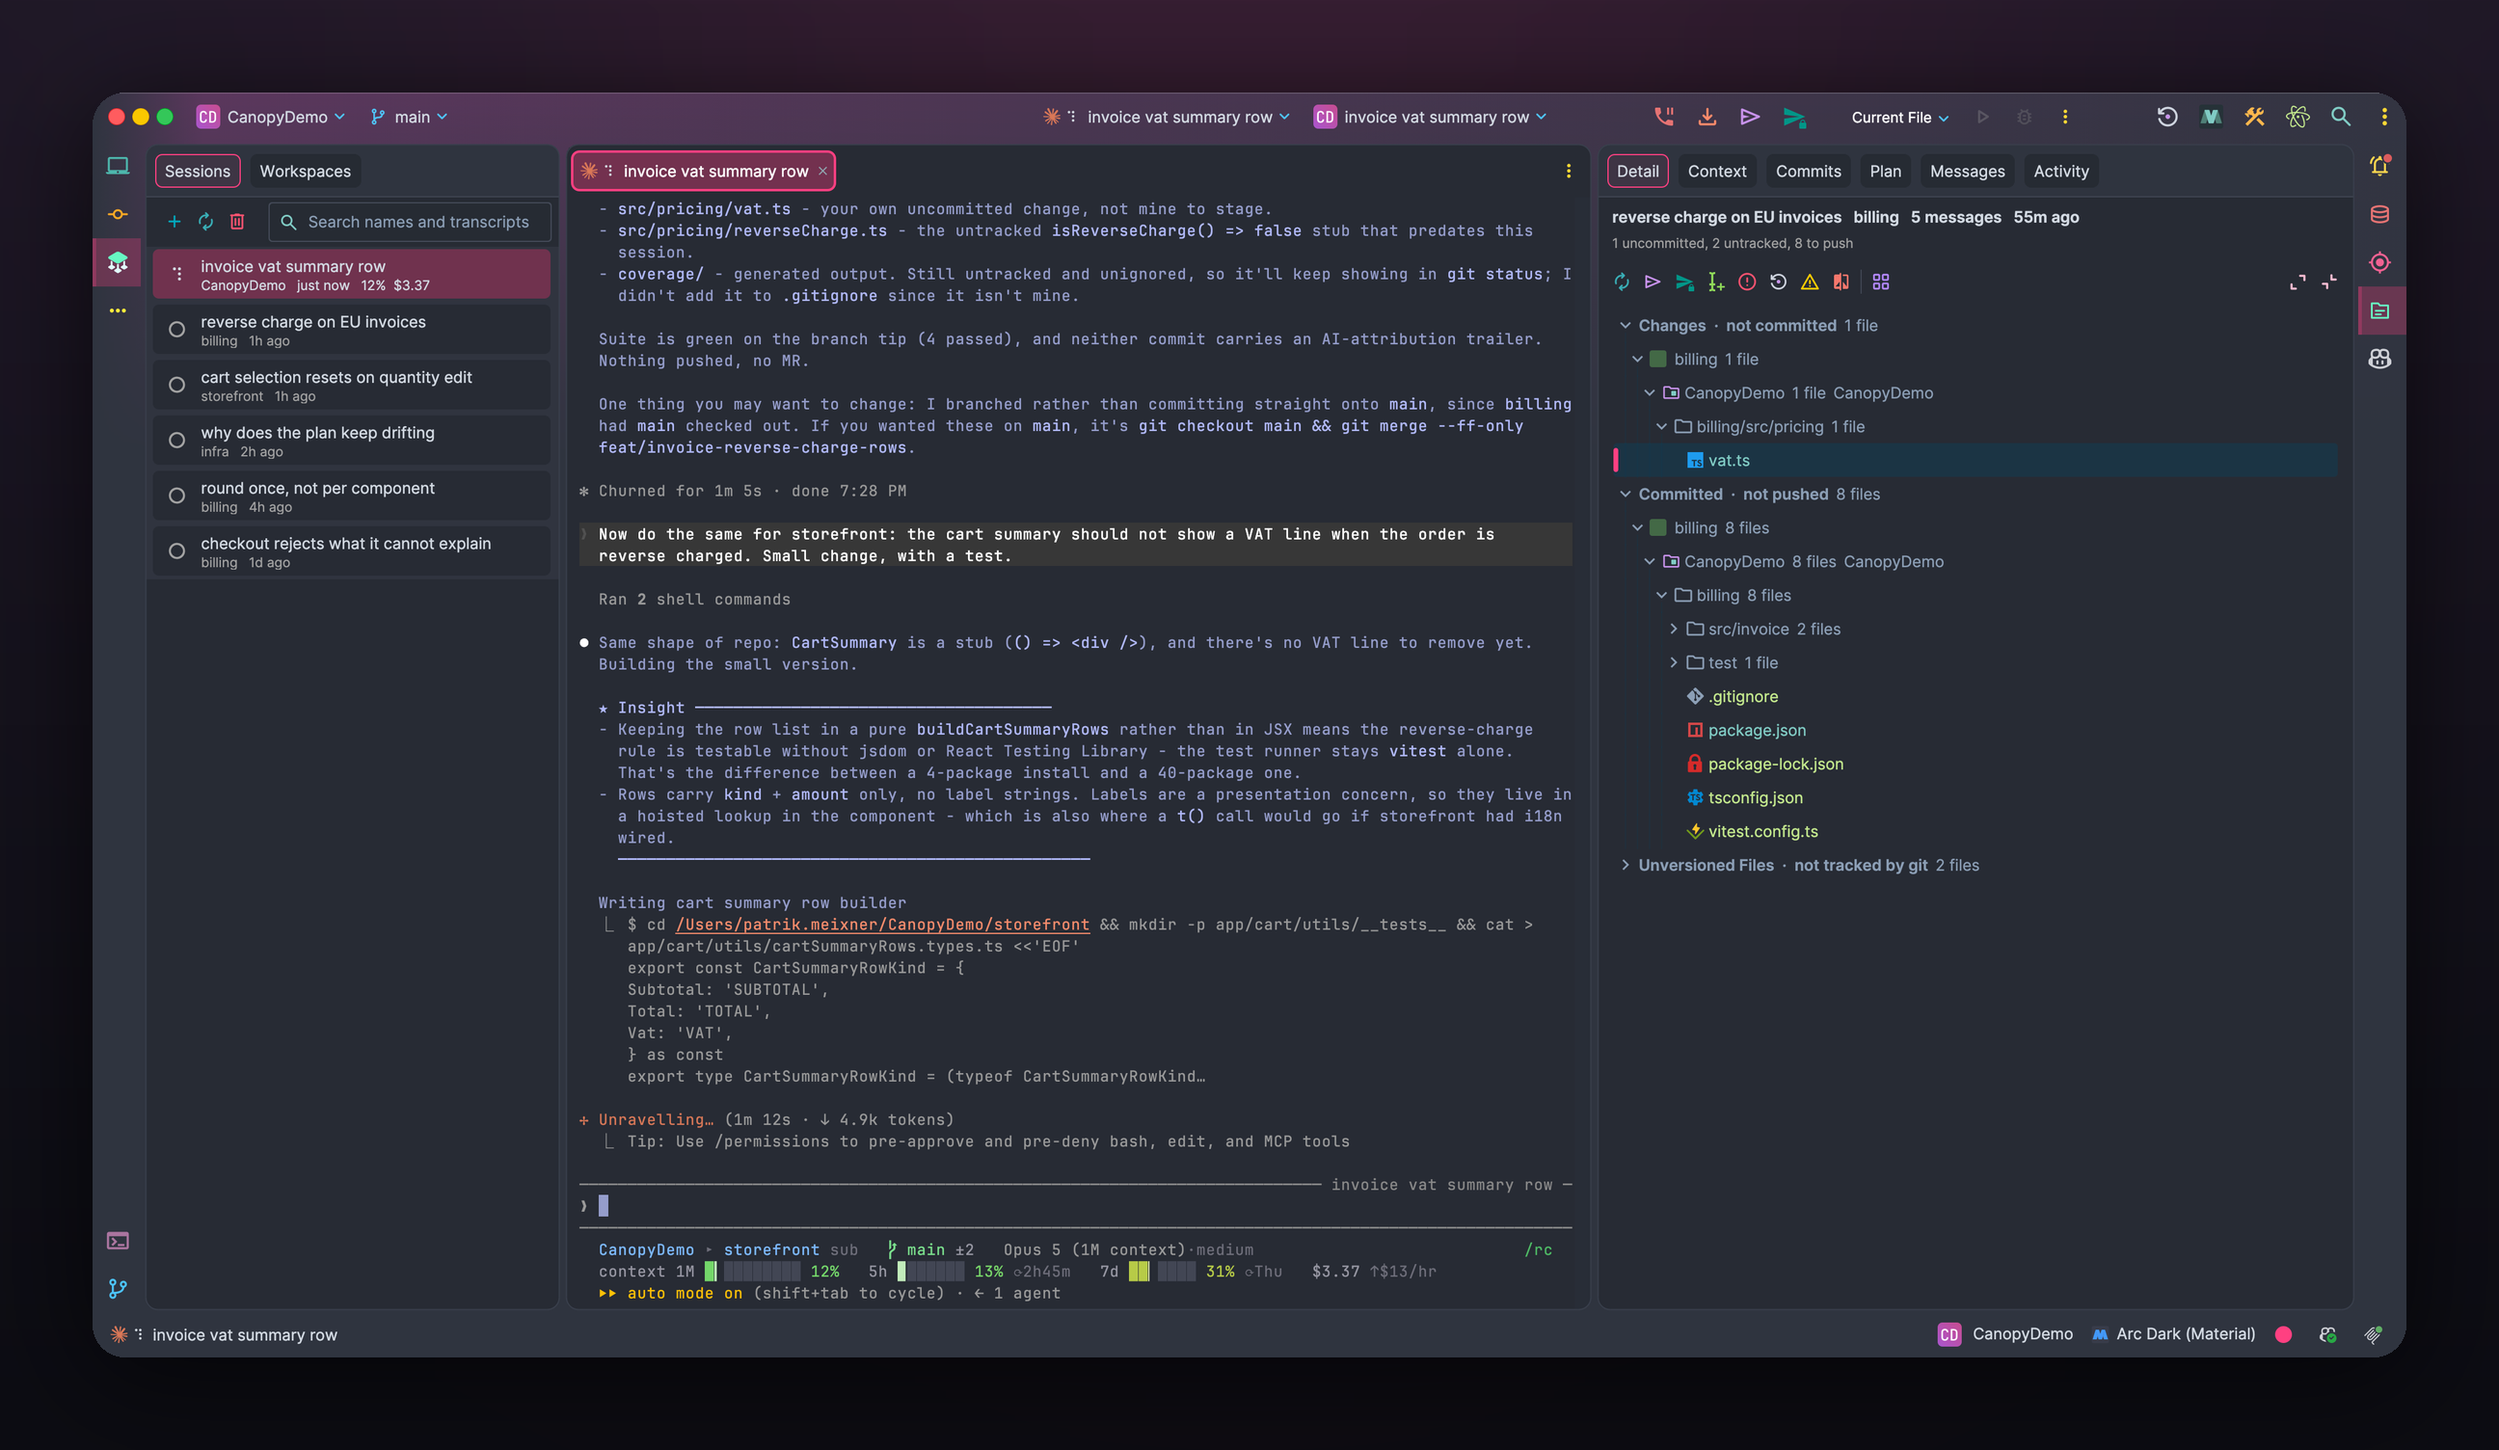
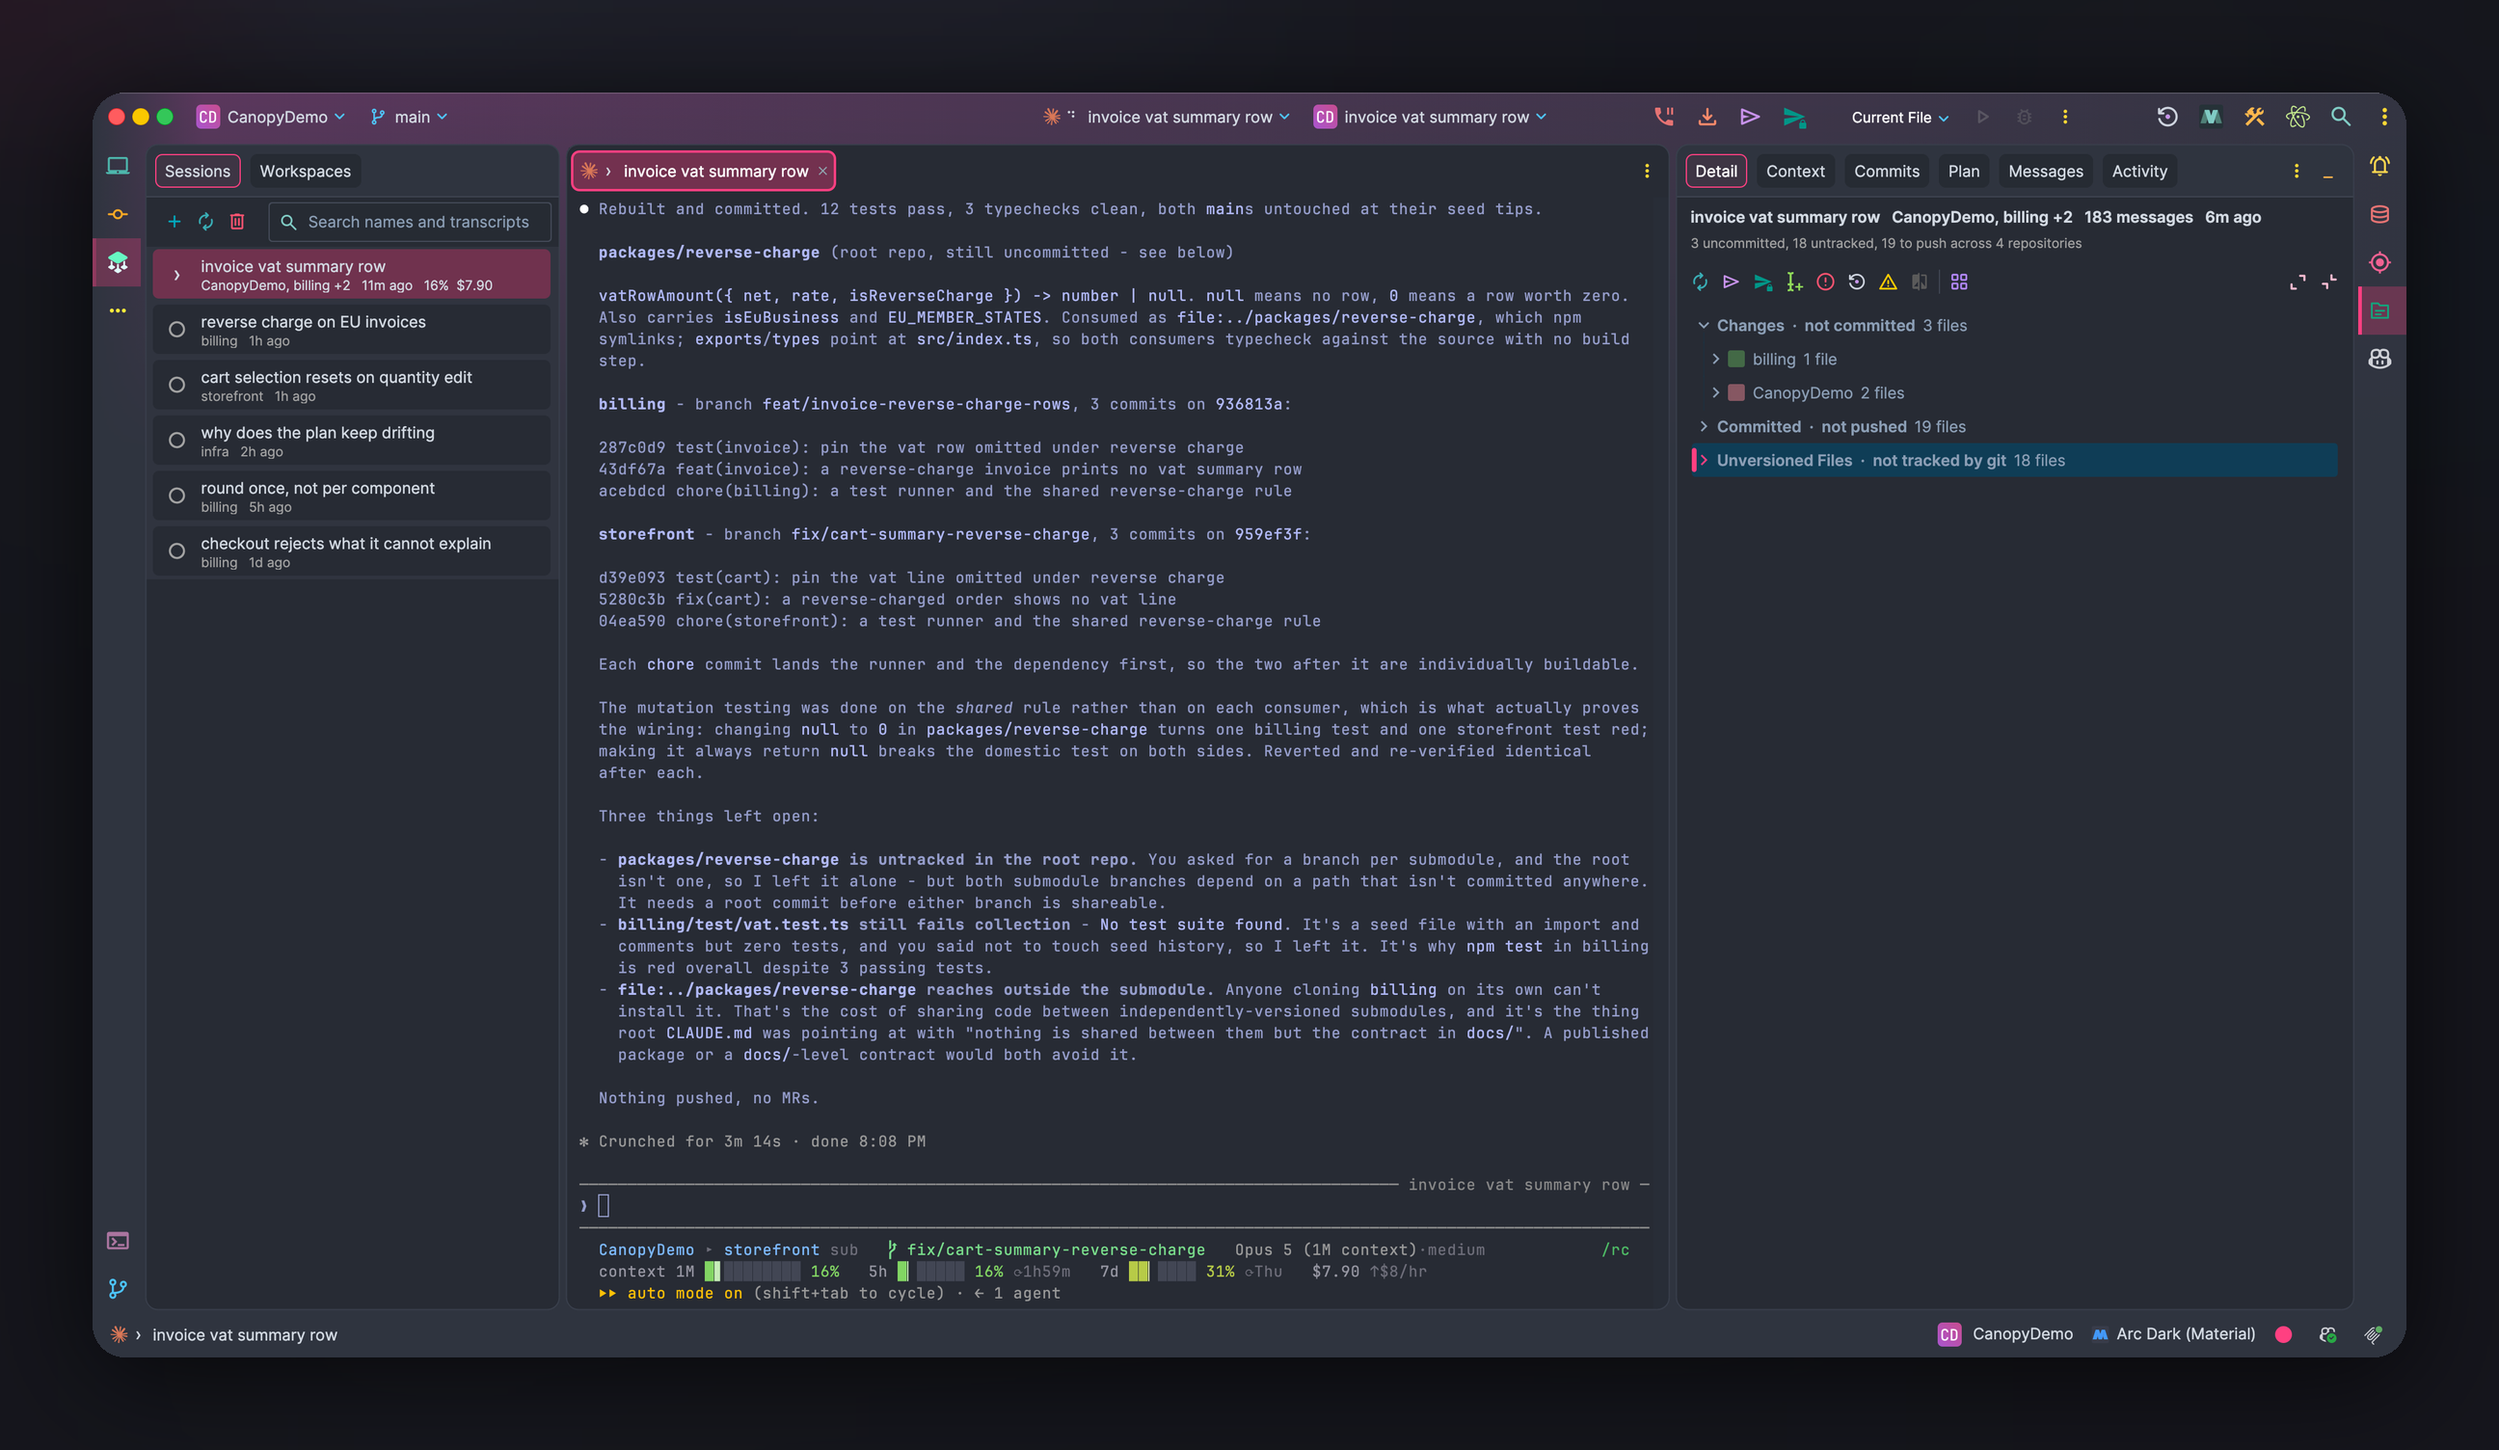
Stand each window on a blurred blow-up of itself
A flat gradient behind the window is a backdrop chosen at random; the window
itself, zoomed and blurred and darkened, belongs to the shot it is behind and
carries its colours.

Eight scenes, all from the demo workspace with a session running in it: the
review beside a working agent, worktrees with the sessions that ran in them, a
range of commits and their union, messages, the task list mid-flight, the rules
and skills in play, what the agent actually ran, and the terminal alone.

diff --git a/tools/demo/shot.py b/tools/demo/shot.py
@@ -16,15 +16,14 @@ from PIL import Image, ImageDraw, ImageFilter
 
 OUT = Path(__file__).resolve().parents[2] / "docs" / "screenshots"
 
-# A ground that is neither white nor black: the IDE keeps its own contrast either way.
-GROUND_TOP = (26, 24, 38)
-GROUND_BOTTOM = (12, 12, 18)
-# The IDE's own accent, thrown faintly on the wall behind it.
-GLOW = (224, 68, 123)
-GLOW_ALPHA = 46
+# The ground is the window itself, blown up, blurred and darkened.
+BACKDROP_ZOOM = 1.35
+BACKDROP_BLUR = 0.045
+BACKDROP_SHADE = (10, 9, 14)
+BACKDROP_DARKEN = 0.62
 RADIUS = 22
 SHADOW_BLUR = 52
-SHADOW_ALPHA = 165
+SHADOW_ALPHA = 175
 
 
 def window_id(match: str) -> tuple[int, str]:
@@ -72,26 +71,18 @@ def rounded(image: Image.Image, radius: int) -> Image.Image:
     return out
 
 
-def ground(size: tuple[int, int]) -> Image.Image:
+def ground(shot: Image.Image, size: tuple[int, int]) -> Image.Image:
+    """The window itself, blown up and blurred, so the ground is made of what stands on it."""
     width, height = size
-    column = Image.new("RGB", (1, height))
-    for y in range(height):
-        ratio = y / max(height - 1, 1)
-        column.putpixel((0, y), tuple(
-            int(GROUND_TOP[channel] + (GROUND_BOTTOM[channel] - GROUND_TOP[channel]) * ratio)
-            for channel in range(3)
-        ))
-    base = column.resize((width, height)).convert("RGBA")
+    scale = max(width / shot.width, height / shot.height) * BACKDROP_ZOOM
+    blown = shot.resize((round(shot.width * scale), round(shot.height * scale)), Image.LANCZOS)
+    left = (blown.width - width) // 2
+    top = (blown.height - height) // 2
+    backdrop = blown.crop((left, top, left + width, top + height))
+    backdrop = backdrop.filter(ImageFilter.GaussianBlur(round(width * BACKDROP_BLUR)))
 
-    # One soft light above the window, so the ground is not a flat field.
-    glow = Image.new("RGBA", size, (0, 0, 0, 0))
-    radius = int(width * 0.42)
-    ImageDraw.Draw(glow).ellipse(
-        [width // 2 - radius, -radius, width // 2 + radius, radius],
-        fill=(*GLOW, GLOW_ALPHA),
-    )
-
-    return Image.alpha_composite(base, glow.filter(ImageFilter.GaussianBlur(radius // 2)))
+    # Darkened, or the window would sit on something as bright as itself.
+    return Image.blend(backdrop, Image.new("RGB", size, BACKDROP_SHADE), BACKDROP_DARKEN).convert("RGBA")
 
 
 def present(shot: Image.Image, pad: int, scale_to: int) -> Image.Image:
@@ -102,7 +93,7 @@ def present(shot: Image.Image, pad: int, scale_to: int) -> Image.Image:
     radius = round(RADIUS * shot.width / 1600)
     card = rounded(shot, radius)
     canvas_size = (shot.width + pad * 2, shot.height + pad * 2)
-    canvas = ground(canvas_size)
+    canvas = ground(shot, canvas_size)
 
     shadow = Image.new("RGBA", canvas_size, (0, 0, 0, 0))
     ImageDraw.Draw(shadow).rounded_rectangle(

diff --git a/tools/demo/seed_demo.py b/tools/demo/seed_demo.py
@@ -520,7 +520,9 @@ def main() -> int:
     arguments = parser.parse_args()
 
     root = Path(arguments.root).expanduser().resolve()
-    transcripts = Path.home() / ".claude" / "projects" / str(root).replace("/", "-")
+    # The CLI encodes both separators and dots, and writes only there; matching it keeps the
+    # seeded sessions and any real one in the same directory.
+    transcripts = Path.home() / ".claude" / "projects" / str(root).replace("/", "-").replace(".", "-")
 
     if arguments.transcripts_only:
         random.seed(7)

diff --git a/docs/screenshots/README.md b/docs/screenshots/README.md
@@ -1,7 +1,7 @@
 # Screenshots
 
-Framed by `tools/demo/shot.py`: the IDE window alone, rounded, on a ground of
-its own. Nothing here is cropped by hand.
+Framed by `tools/demo/shot.py`: the IDE window alone, rounded, standing on a
+blurred blow-up of itself. Nothing here is cropped by hand.
 
 ```
 python3 -m venv /tmp/shotenv && /tmp/shotenv/bin/pip install Pillow pyobjc-framework-Quartz
